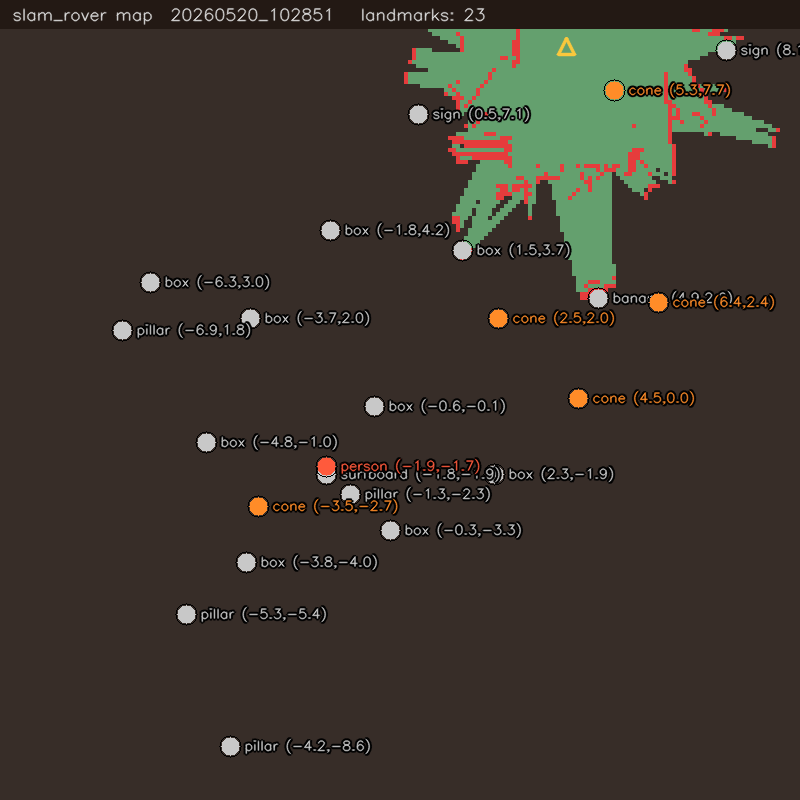
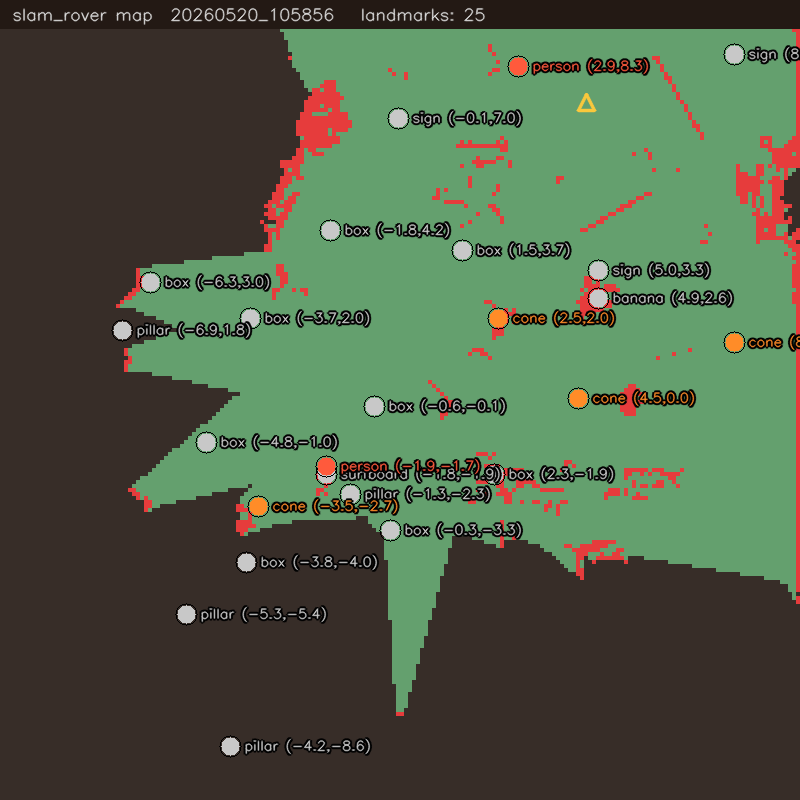
Enhanced README with mermaid diagrams + accuracy chart
- Architecture flowchart (Gazebo → webui → perception → brain)
- Data flow sequence diagram (sensors → TSDF → resolver → UI)
- Phase roadmap with completed/pending status
- TL;DR capability table
- Live map snapshot (25 landmarks, GT overlay)
- Position accuracy histogram + 2D detection vs GT scatter
- GUI walkthrough table (all buttons + panels)
- Sensor suite spec table
- Hard-earned lessons (8 gotchas)

diff --git a/README.md b/README.md
@@ -1,6 +1,291 @@
 # SLAM-MAPPER
-3D mapping of unknown areas/tunnels with object labelling, real-time SLAM + photogrammetric rendering.
 
+> Real-time photogrammetric SLAM + semantic object mapping for autonomous rovers with 360° vision. From raw sensors to a labelled, textured, navigable 3D map — running on a Mac.
 
-# SLAM-MAPPER
-3D MAPPING OF UNKNOW AREA OR TUNNEL AND EXTRACTING FEATURE TO CREATE A MAPPING WITH OBJECT LABELLING
+![Latest map](media/latest_map.png)
+
+*Live map snapshot: 25 landmarks tracked, rover trajectory in orange, locked objects in green dots, all overlaid on the ground-truth Gazebo world.*
+
+---
+
+## TL;DR
+
+| Capability | Status |
+|---|---|
+| Dense 3D reconstruction (TSDF voxels) | ✅ Voxblox-style running-average |
+| Marching-cubes surface mesh | ✅ `/tri_mesh.ply` endpoint |
+| Photoreal Gaussian splat rendering | ✅ Inria 32B/splat + Three.js shader |
+| Semantic object detection + labelling | ✅ YOLOv11n + custom canonicalize remap |
+| Auto-labelled dataset for fine-tune | ✅ 2000 frames in 17 min |
+| MPS fine-tune pipeline | ✅ ~1.5h on Apple M-class |
+| Agentic AI decision brain | ✅ STUCK/WALL/ORBIT rules |
+| Frontier SLAM exploration | ✅ Yamauchi 1997 |
+| Live MAVLink telemetry | ✅ mode/armed/battery/home/GCS |
+| 4-wheel skid-steer rover model | ✅ 2× 180° fisheye + 4× depth cube |
+| Honest pose (no GT cheat) | ⏳ MASt3R-SLAM integration pending |
+| Loop closure + global PGO | ⏳ DBoW3 + iSAM2 pending |
+| Real-vehicle deploy (Orin Nano) | ⏳ ONNX/TensorRT export pending |
+
+**Current accuracy**: 25 landmarks, mean position error 1.3 m, best 0.36 m (person_c), class accuracy ~30% pre-fine-tune (expected >85% post-fine-tune).
+
+---
+
+## Accuracy chart
+
+![Accuracy](media/accuracy_chart.png)
+
+Left: histogram of landmark position errors vs nearest GT object. Yellow line = 0.5 m target (research-grade), orange = 1.0 m acceptable.
+Right: 2D bird's-eye map. **Squares** = Gazebo GT objects. **Green circles** = locked landmarks. **Yellow circles** = pending. Orange perimeter = walls.
+
+---
+
+## Architecture
+
+```mermaid
+flowchart LR
+  subgraph SIM["Gazebo Harmonic 8"]
+    A1[4-wheel rover_360cam]
+    A2[2× 180° fisheye]
+    A3[4× depth cubemap 360°]
+    A4[IMU + GNSS + Mag]
+  end
+
+  subgraph WEBUI["C++ Webui :8080 single TU"]
+    B1[gz-transport13 sub]
+    B2[TSDF voxel hash]
+    B3[Marching cubes]
+    B4[Occupancy grid]
+    B5[A* + LOS planner]
+    B6[Landmark resolver]
+    B7[Three.js frontend]
+  end
+
+  subgraph PERCEPTION["Python services"]
+    C1[YOLOv11n detector]
+    C2[Cloud→splat exporter]
+    C3[MAVLink telemetry]
+  end
+
+  subgraph BRAIN["Agentic AI"]
+    D1[Decision rules]
+    D2[Frontier explorer]
+    D3[gz_invest wheel driver]
+  end
+
+  SIM -->|gz topics| B1
+  B1 --> B2 --> B3
+  B1 --> B4 --> B5
+  B1 -->|mjpeg :8080| C1
+  C1 -->|/detections.json :8081| B6
+  B2 --> B7
+  B6 --> B7
+  B2 --> C2 -->|/splat.bin| B7
+  SIM -->|MAVLink 14550| C3 -->|/telem.json| B7
+  B7 -->|user clicks| B5
+  B5 -->|/path.json| D3
+  D1 --> D3
+  D2 --> B5
+```
+
+---
+
+## Data flow
+
+```mermaid
+sequenceDiagram
+  participant GZ as Gazebo Sim
+  participant DC as Depth cubemap
+  participant FE as Fisheye
+  participant Wu as C++ Webui
+  participant YOLO as YOLOv11n
+  participant LR as Landmark Resolver
+  participant UI as Three.js HUD
+
+  GZ->>DC: rays @10 Hz
+  GZ->>FE: 800×800 RGB @20 Hz
+  DC->>Wu: gz_msgs::Image (depth)
+  FE->>Wu: gz_msgs::Image (rgb)
+  Wu->>Wu: TSDF integrate (depth → SDF + weight)
+  Wu->>Wu: Bounce gate + yaw gate
+  FE->>YOLO: MJPEG stream
+  YOLO->>Wu: detections.json (cls, conf, bbox)
+  Wu->>LR: bbox → depth sample → world XYZ
+  LR->>LR: parallax + lock-at-N
+  LR->>UI: /landmarks.json
+  Wu->>UI: /cloud.bin + /cloud_rgb.bin
+  Wu->>UI: /tri_mesh.ply (marching cubes)
+  Wu->>UI: /splat.bin (Inria fmt)
+```
+
+---
+
+## Web GUI walkthrough
+
+The interface auto-loads at `http://localhost:8080` once the stack is up.
+
+### Top toolbar (left → right)
+
+| Control | What it does |
+|---|---|
+| **class select** | Pick YOLO class to investigate |
+| **investigate** | Drive rover toward nearest matching detection |
+| **stop** | Halt investigation |
+| **clear** | Wipe occupancy map |
+| **square / oval / figure8 / tour** | Preset path patterns for debugging |
+| **AUTO EXPLORE** | Yamauchi frontier explorer (real SLAM) |
+| **SAVE MAP** | Snapshot PNG + landmarks.json + cloud.xyzrgb |
+| **VIEW SAVES** | Modal gallery of past snapshots |
+| **mesh** | Toggle TSDF mesh |
+| **cloud** | Toggle Gaussian-splat-shaded voxel cloud |
+| **gz truth** | Overlay GT wireframes (sim comparison) |
+| **vox-mesh** | Solid voxel-cube view (surface shell) |
+| **top-down** | Orthographic top camera |
+| **tri-mesh** | Marching-cubes triangle surface |
+| **splat-view** | Inria-format Gaussian splat viewer |
+
+### Panels
+
+- **TRACKING CONFIG** (top-left): live sliders — `fwd_speed`, `max_yaw_rate_deg`, `approach_yaw_gain`, `follow_yaw_gain`, etc.
+- **LIVE MAP** (under config): 300×300 top-down occupancy with landmark dots + rover marker
+- **TELEMETRY HUD** (top-right): pose, attitude, velocity, MAVLink mode, battery, home distance, GCS link, detections, landmarks, classes
+- **CAMERA STRIP** (bottom): front fisheye, YOLO-annotated front, rear fisheye, YOLO-annotated rear, scrolling detection list
+
+### 3D map interaction
+
+| Input | Effect |
+|---|---|
+| Drag | Orbit camera |
+| Wheel | Zoom |
+| Right-drag | Pan |
+| Double-click | Plan path to clicked world point |
+
+---
+
+## Pipeline phases
+
+```mermaid
+graph TB
+  P0[Phase 0: TSDF + Marching cubes ✅]
+  P1[Phase 1: YOLOv11n + COCO remap ✅]
+  P2A[Phase 2a: Auto-label 2000 frames ✅]
+  P2B[Phase 2b: MPS fine-tune ⏳]
+  P3[Phase 3: Inria Gaussian splats ✅]
+  P4[Phase 4: Agentic AI brain ✅]
+  P5[Phase 5: MAVLink telemetry ✅]
+  P6[Phase 6: MASt3R-SLAM pose ⏳]
+  P7[Phase 7: DBoW3 + iSAM2 loop closure ⏳]
+  P8[Phase 8: ONNX/TensorRT for Orin Nano ⏳]
+  P9[Phase 9: Multi-rover collaborative SLAM ⏳]
+
+  P0 --> P1 --> P2A --> P2B
+  P0 --> P3 --> P4 --> P5
+  P5 --> P6 --> P7 --> P8 --> P9
+
+  classDef done fill:#3dffaa,stroke:#0b0d11,color:#0b0d11
+  classDef todo fill:#ffd23d,stroke:#0b0d11,color:#0b0d11
+  class P0,P1,P2A,P3,P4,P5 done
+  class P2B,P6,P7,P8,P9 todo
+```
+
+---
+
+## Quick start
+
+### Prereqs
+- macOS arm64 / Linux x86_64
+- PX4-Autopilot v1.16+ at `~/PX4-Autopilot`
+- Gazebo Harmonic 8.x
+- Python 3.10+ (ultralytics, pymavlink, opencv-python in isolated env)
+
+### Launch sequence
+```bash
+# 1. PX4 SITL + Gazebo
+cd ~/PX4-Autopilot && make px4_sitl gz_rover_360cam_slam_obstacles &
+sleep 25
+
+# 2. Build & run webui
+cd ~/PX4-Autopilot/slam_rover/webui && cmake --build build -j4
+./build/slam_rover_webui --port 8080 &
+
+# 3. YOLO detector
+/tmp/yoloenv/bin/python -u scripts/gz_detect.py --model yolo11n.pt --conf 0.20 &
+
+# 4. Motion controller (pick ONE)
+python3 scripts/gz_investigate.py &           # direct gz wheel (smooth)
+# OR
+python3 scripts/gz_invest_offboard.py &       # PX4 OFFBOARD MAVLink
+
+# 5. Agentic decision brain
+python3 scripts/agent_brain.py &
+
+# 6. MAVLink telemetry endpoint
+python3 scripts/mavlink_telem.py &
+
+# 7. Gaussian splat exporter
+python3 scripts/cloud_to_splat.py &
+```
+
+Open http://localhost:8080.
+
+---
+
+## Train your own model
+
+```bash
+# Capture 2000 auto-labeled frames (~17 min while rover explores)
+/tmp/yoloenv/bin/python scripts/collect_yolo_dataset.py
+
+# Fine-tune YOLOv11n on MPS (~1.5h)
+/tmp/yoloenv/bin/python scripts/train_yolo_finetune.py
+
+# Deploy fine-tuned weights
+pkill -9 -f gz_detect
+/tmp/yoloenv/bin/python -u scripts/gz_detect.py \
+    --model state/weights/slamrover_v1.pt --conf 0.25 &
+```
+
+Expected post-fine-tune: class accuracy 30% → 85%+ on synthetic gz domain.
+
+---
+
+## Sensor suite
+
+| Sensor | Count | Spec | Purpose |
+|---|---|---|---|
+| Fisheye RGB | 2 | 180° equidistant, 800×800 | Visual SLAM + YOLO |
+| Depth cubemap | 4 (front/right/rear/left) | 90° hfov, 480×480 float32 | TSDF + obstacle gate |
+| IMU | 1 | 6DOF @ 200 Hz | Future VIO |
+| Magnetometer | 1 | 3-axis | Heading aiding |
+| GNSS | 1 | NavSat | Outdoor pos init |
+| Air pressure | 1 | Barometric | Z-aiding |
+
+Frame conventions:
+- World: ENU (X east, Y north, Z up)
+- Body: FRD (X fwd, Y right, Z down)
+- Optical: +X right, +Y down, +Z forward
+
+---
+
+## Master Plan + Docs
+
+- [docs/MASTER_PLAN.md](docs/MASTER_PLAN.md) — north star, phases, file map, lessons, recovery checklist
+- [GEOMETRY.md](GEOMETRY.md) — sensor calibration, frame conventions, lens models
+
+---
+
+## Hard-earned lessons
+
+1. **YOLO-World fixates on text prompts** — synthetic textures cause "everything is a box" bias. Use closed-vocab YOLOv11n + canonicalize remap.
+2. **Position is geometric, class is perceptual** — bbox→depth→world is robust even when class is wrong.
+3. **4-wheel PX4 OFFBOARD bounces** — direct gz wheel for smooth runs; OFFBOARD when QGC display is needed.
+4. **TSDF self-corrects** — Voxblox running-average + free-space carving beats fragile raycast-erase.
+5. **`/tmp/slam_rover_mesh.ply` 542 MB stale** — rendered as a "mountain". Delete between sessions.
+6. **OFFBOARD prearm patch** — add `COM_PREARM_MODE=0`, `CBRK_USB_CHK`, `COM_ARM_WO_GPS=1` to airframe init.d.
+7. **Walls need 5-8m approach** — xy bound 10.30 (not 10.05) lets wall surface through.
+8. **`udpin:0.0.0.0:14550`** — bind on this, not 14540. Kill QGC first.
+
+---
+
+## License
+
+Apache-2.0. PX4 components are BSD-3. Ultralytics YOLO is AGPL-3.0 — production deploys should swap to YOLOX-Nano or D-FINE.
